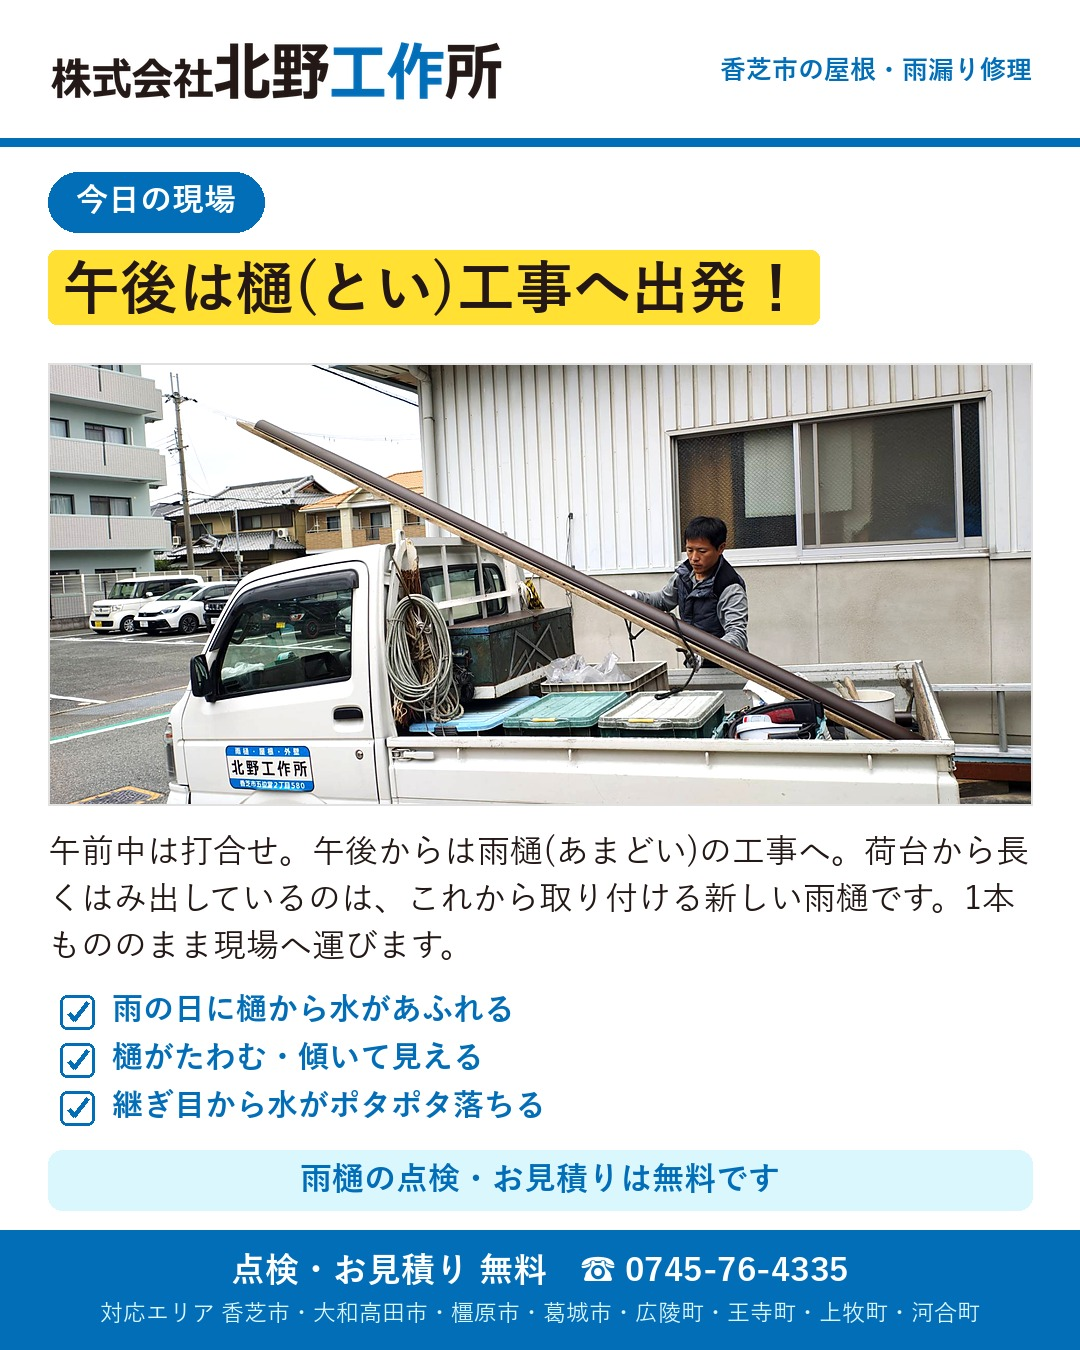
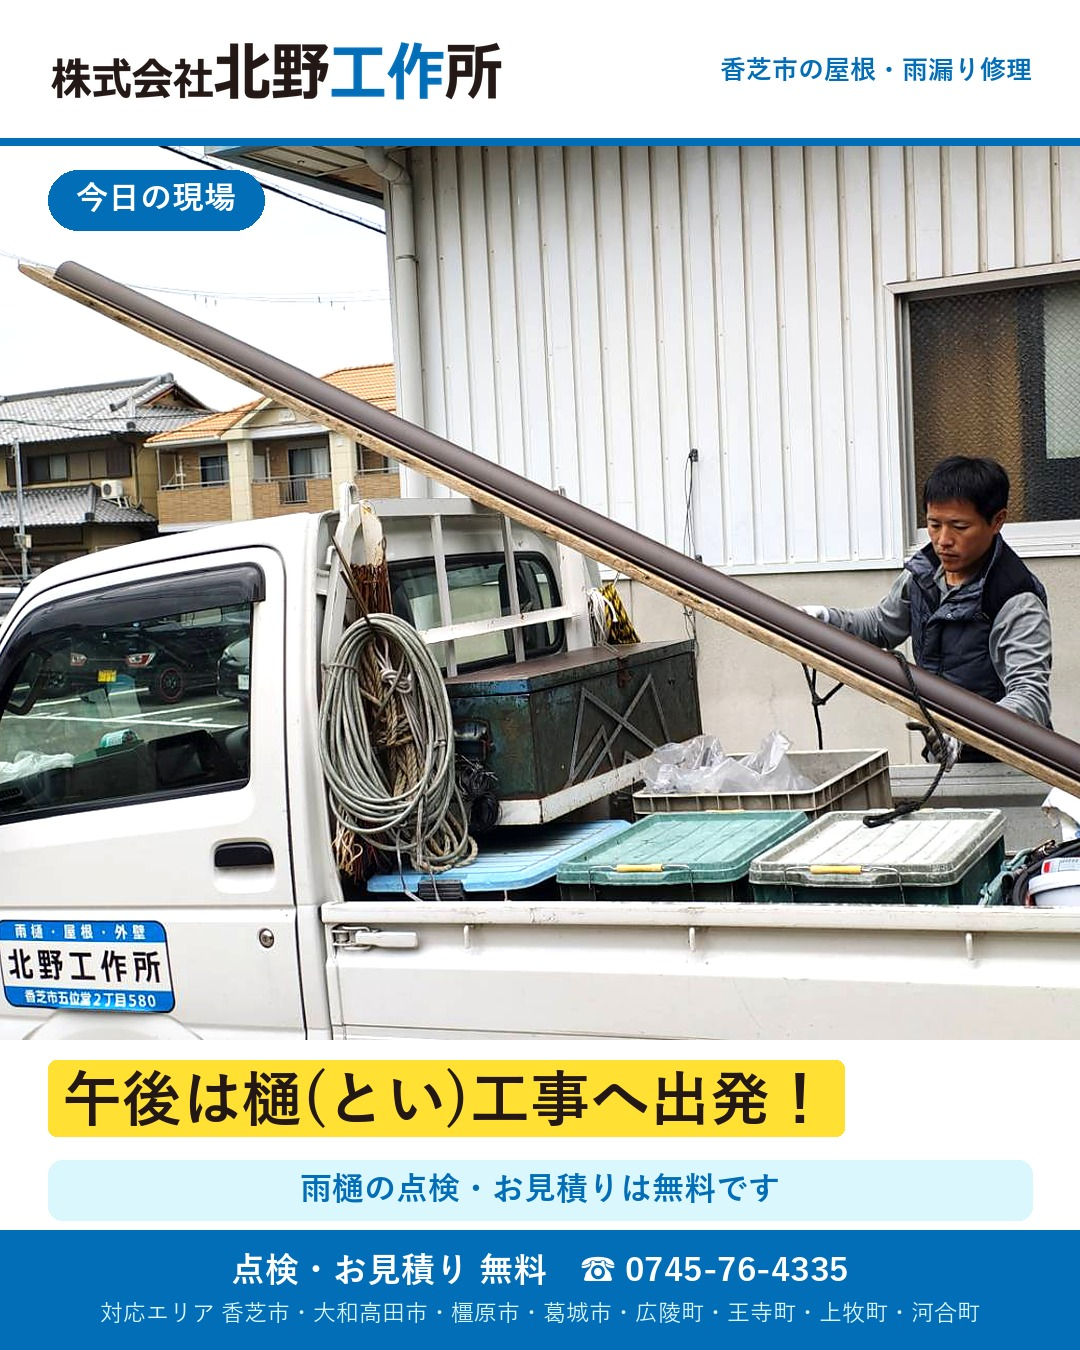
113 今日の現場: 写真大きめ・文字少なめレイアウト(layout=big) [skip ci]

diff --git a/make_genba.py b/make_genba.py
@@ -27,7 +27,36 @@ def photo_fit(path, w, brightness=1.12, contrast=1.06):
     return im.filter(ImageFilter.UnsharpMask(radius=1, percent=60, threshold=3))
 
 
+def cover_x(im, w, h, focus_x=0.5):
+    """w×h に切り抜き。横長写真の左右どこを残すかを focus_x(0=左端, 1=右端)で指定"""
+    iw, ih = im.size
+    s = max(w / iw, h / ih)
+    im = im.resize((int(iw * s) + 1, int(ih * s) + 1), Image.LANCZOS)
+    left = int((im.width - w) * focus_x)
+    top = (im.height - h) // 2
+    return im.crop((left, top, left + w, top + h))
+
+
+def build_big(a):
+    """写真を大きく・文字少なめ(ユーザー指示 2026-11-09)。写真は左右いっぱい(1080幅)で高さ約900、
+    左上に「今日の現場」ピル、写真の下に黄色帯のタイトル1本と水色帯だけ"""
+    im, d = M.base()
+    top, bottom = 146, 1040
+    ph = Image.open(a["photo"]).convert("RGB")
+    ph = ImageEnhance.Brightness(ph).enhance(a.get("brightness", 1.12))
+    ph = ImageEnhance.Contrast(ph).enhance(a.get("contrast", 1.06))
+    ph = cover_x(ph, M.W, bottom - top, a.get("focus_x", 0.5)).filter(ImageFilter.UnsharpMask(radius=1, percent=60, threshold=3))
+    im.paste(ph, (0, top))
+    if a.get("pill"):
+        M.pill(d, a["pill"], top + 24)
+    y = M.title_hl(d, a["title"], bottom + 26, 60, 984)
+    M.band_note(d, a["note"], y=1160)
+    M.save(im, a["n"], a["slug"], a["cap"] + M.CTA)
+
+
 def build(a):
+    if a.get("layout") == "big":
+        return build_big(a)
     im, d = M.base()
     y = 172
     if a.get("pill"):
